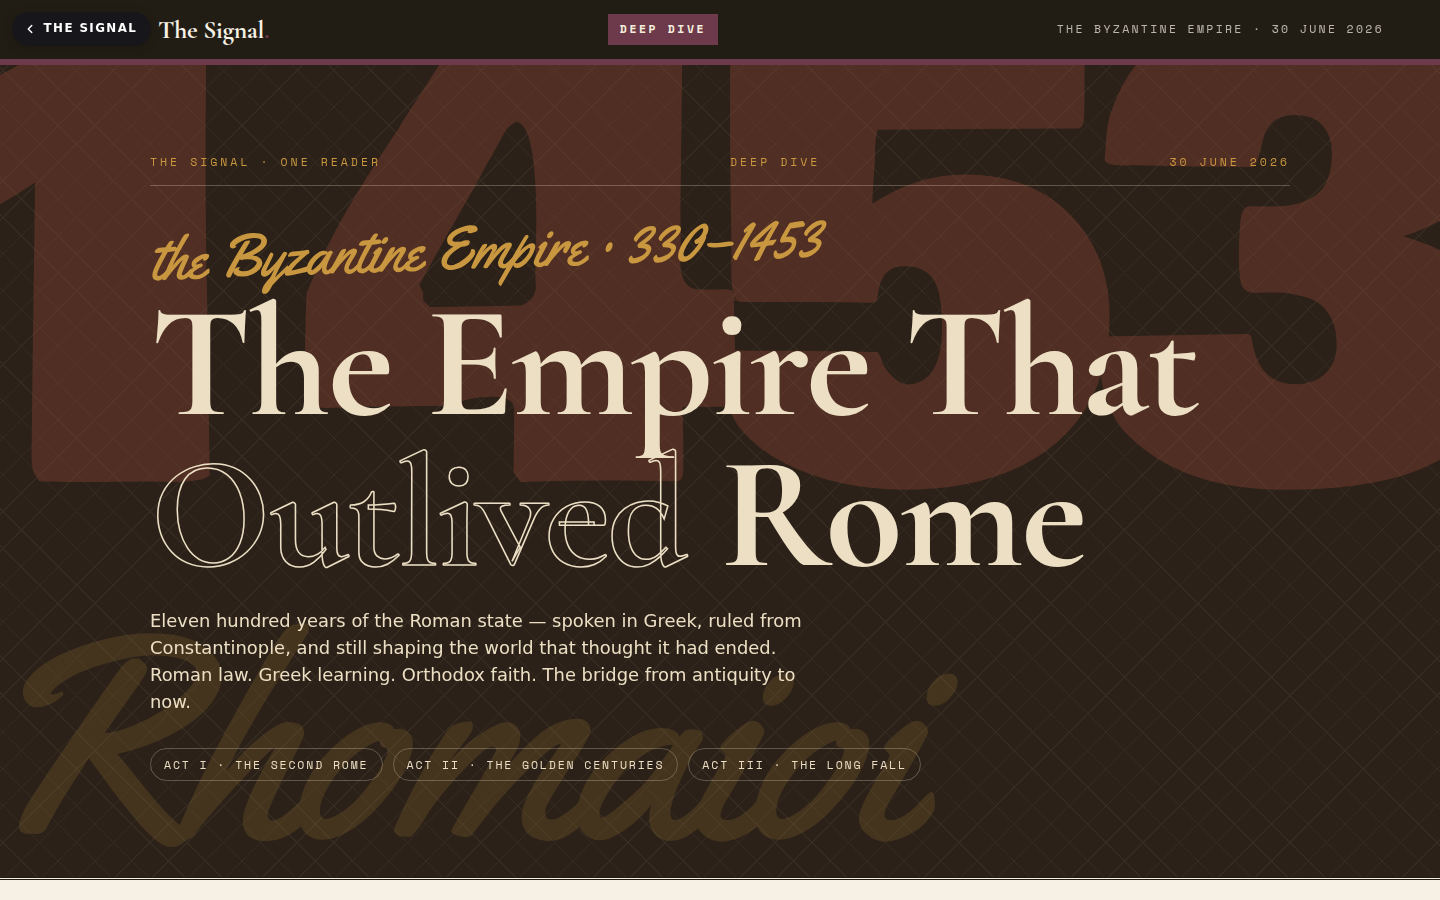
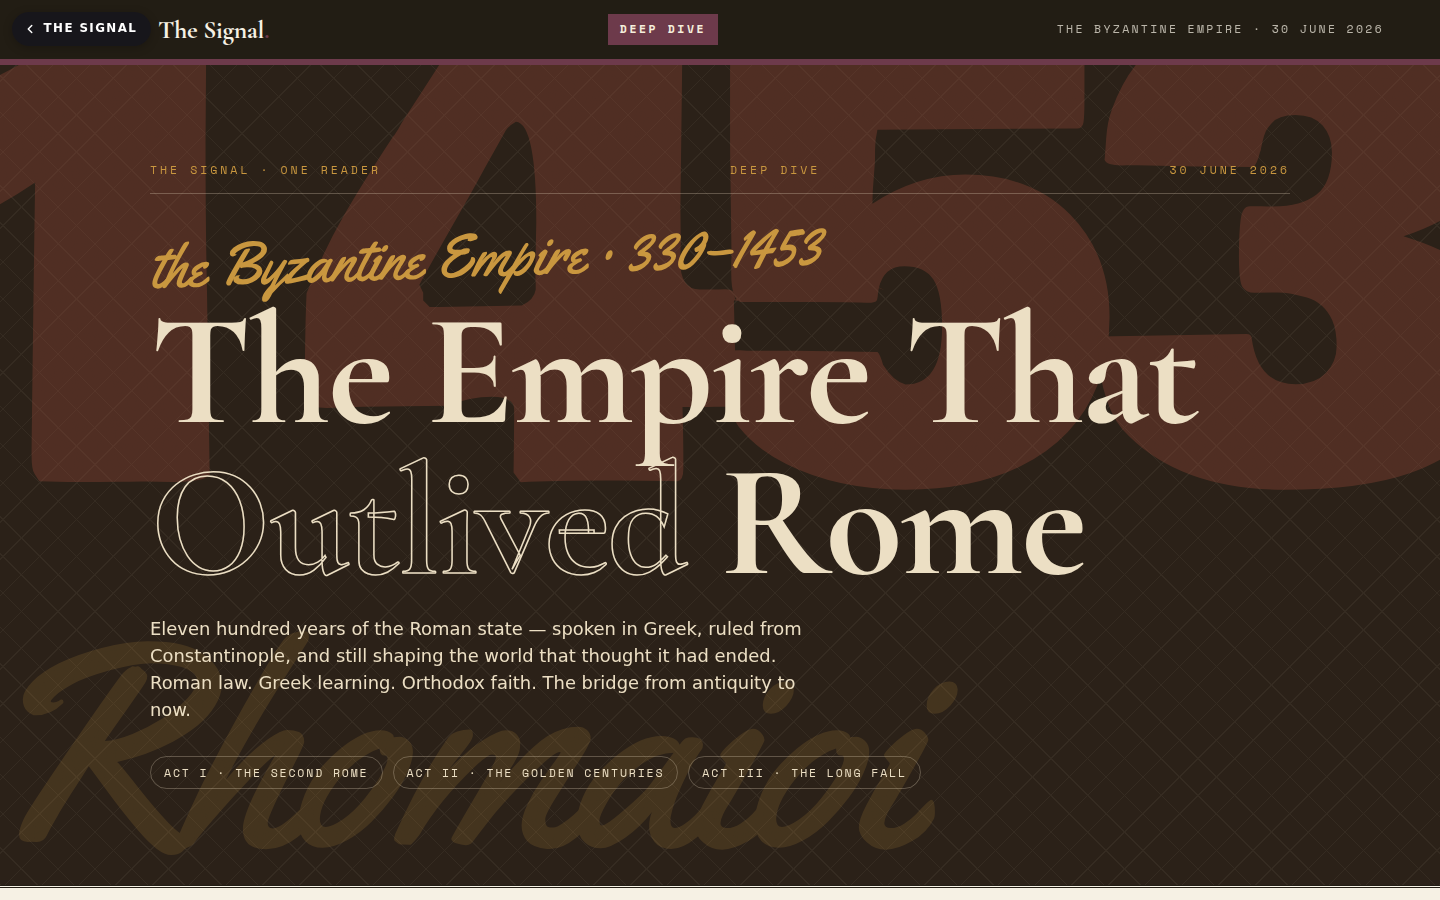
WP-3 remediation: editorial desktop reading air — words/screen 222.7 -> 219.0 @1440
Verifier failed candidate 1 on the Law-2 words/screen cap (220). Fix is
design-level (skin desktop rhythm), body copy untouched; bundle rebuilt,
candidate re-measured and re-rendered. Ev/screen 1.0, zero-run 1, all
craft flags clean.

Claude-Session: https://claude.ai/code/session_01EreMF5JaX6KMCW32vaCXyA

diff --git a/tools/fixtures/skinned/bundle-editorial.css b/tools/fixtures/skinned/bundle-editorial.css
@@ -196,7 +196,6 @@
   transform: rotate(-2deg);
   max-width: 30ch;
 }
-
 /* ═══════════════════════════════════════════════════════════════════════════
    THE SIGNAL · FURNITURE CORE · 01-FONTS
    Self-hosted subsetted woff2 under /assets/fonts/ (§2.2: Google Fonts links
@@ -276,7 +275,6 @@
   src: url("/assets/fonts/space-mono-latin-700-normal.woff2") format("woff2");
   font-weight: 700; font-style: normal; font-display: swap;
 }
-
 /* ============================================================
    MX CORE · 10-ephemera.css
    Framed-object chassis: content window + fastener + hand
@@ -784,7 +782,6 @@
   gap: 30px;
   justify-items: center;
 }
-
 /* ============================================================
    MX CORE · 11-ledgers.css
    Data furniture: facts <dl> ledgers, ranked entries + rank
@@ -1176,7 +1173,6 @@
 .mx-scorecard__gap { text-align: right; font-weight: 700; }
 .mx-scorecard tr.is-lead td { font-weight: 700; }
 .mx-scorecard tr.is-lead .mx-scorecard__gap { color: var(--mxl-accent); }
-
 /* ============================================================
    MX CORE · 12-plates.css
    Editorial set pieces: numbered plates (chapter headers with
@@ -1586,7 +1582,6 @@
 .mx-dontmiss__list li:nth-child(3)::before { transform: translateY(-50%) rotate(-3deg); }
 .mx-dontmiss__list li:nth-child(4)::before { transform: translateY(-50%) rotate(7deg); }
 .mx-dontmiss__list li b { color: var(--mx-support-2); }
-
 /* ============================================================
    MX CORE · 13-chrome.css
    ONE masthead, cover scaffolds (incl. poster), kicker, act
@@ -2189,7 +2184,6 @@
   color: var(--mx-support-2);
   margin-bottom: 12px;
 }
-
 /* ============================================================
    MX CORE · 14-motion.css
    TIER SCAFFOLDING ONLY. Full motion behaviors (IO-driven
@@ -2342,7 +2336,6 @@
     transform: rotate(var(--mx-tilt, 0deg));
   }
 }
-
 /* ============================================================
    MX CORE · 15-responsive.css
    390px stacking, fixed-chrome space reservation, table
@@ -2532,7 +2525,6 @@
   .mx-quote figcaption { font-size: max(0.72rem, var(--mx-micro)); }
   .mx-body p { font-size: max(0.95rem, 1rem); }
 }
-
 /* ============================================================
    MX CORE · 16-print.css
    Minimal print sheet (Law 10). Grounds off, ink on paper, no
@@ -2678,7 +2670,6 @@
   [data-mx] img { max-width: 100% !important; }
   [data-mx] .mx-body p { orphans: 3; widows: 3; }
 }
-
 /* ============================================================
    MX SKIN · skin-editorial.css                       (L1, WP-3)
    THE SIGNAL — editorial skin for Deep Dive / Rewind / Versus /
@@ -2737,6 +2728,14 @@
    editorial skin never changes density metrics. Pair with the
    core .mx-body--serif variant for the full serif register. */
 [data-skin="editorial"] .mx-body p { font-family: var(--mx-t-serif); }
+
+/* Desktop reading air: the serif measure earns a slower rhythm at
+   magazine widths. Also keeps long-form pages under the Law-2
+   words/screen cap (220 for Deep Dive) without touching body copy. */
+@media (min-width: 1280px) {
+  [data-skin="editorial"] .mx-body p { margin-bottom: 1.5em; line-height: 1.76; }
+  [data-skin="editorial"] section[data-act] { padding-block: 6rem; }
+}
 
 /* ------------------------------------------------------------
    01 · RESTRAINED GROUNDS — ink-and-paper ambience, never loud.
@@ -3050,4 +3049,3 @@
 }
 /* ledger captions + quote sources pick up the brass register */
 [data-skin="editorial"] .mx-quote figcaption b { color: var(--mx-accent); }
-

diff --git a/.claude/skills/the-signal/assets/css/skins/skin-editorial.css b/.claude/skills/the-signal/assets/css/skins/skin-editorial.css
@@ -57,6 +57,14 @@
    core .mx-body--serif variant for the full serif register. */
 [data-skin="editorial"] .mx-body p { font-family: var(--mx-t-serif); }
 
+/* Desktop reading air: the serif measure earns a slower rhythm at
+   magazine widths. Also keeps long-form pages under the Law-2
+   words/screen cap (220 for Deep Dive) without touching body copy. */
+@media (min-width: 1280px) {
+  [data-skin="editorial"] .mx-body p { margin-bottom: 1.5em; line-height: 1.76; }
+  [data-skin="editorial"] section[data-act] { padding-block: 6rem; }
+}
+
 /* ------------------------------------------------------------
    01 · RESTRAINED GROUNDS — ink-and-paper ambience, never loud.
    The utilities stay ON (Law 1: no flat act grounds); the skin

diff --git a/docs/design-system-unification-EVIDENCE/WP-3/parity-scorecards.md b/docs/design-system-unification-EVIDENCE/WP-3/parity-scorecards.md
@@ -1,0 +1,88 @@
+# WP-3 Design-Parity Scorecards
+
+Verifier: independent design-parity pass, 2026-07-19. Inputs: the two candidate packs (`render/` + `metrics.json`), the frozen reference packs (`references/{countdown,field-guide,mockup}/render/`), and Part 1 verbatim (`WP-2/part1-verbatim.md`). No source HTML/CSS, git history, or progress docs were consulted. Screenshots opened: 13 candidate-1, 11 candidate-2, 9 reference (both widths + dark for each candidate; minimums met).
+
+---
+
+## CANDIDATE 1 — editorial-skin Deep Dive (`parity-candidate-dd-editorial/`, source `dd-2026-06-30-editorial.html`)
+
+### Step 1 — the three questions (screenshots alone)
+
+- **"Objects on a surface, or boxes on a page?"** Objects on a surface: taped ruled cards, a push-pinned hand-drawn chart, rotated postal date-stamps and an index card all sit at 1–3° with shadows on a visibly cross-hatched paper ground (1440/depth-2.png, depth-3.png; 390/depth-2.png).
+- **"Does the scroll travel, or is it one flat ground?"** It travels: dark-ink cover → cream paper Act I → parchment-gold Act II → ash-brown Act III → back to cream coda, with marquee transit bands ("STONE leaving … GOLD arriving") between acts (cover.png, 1440/depth-1.png, depth-3.png, depth-5.png, depth-7.png; metrics `mx-transit` ×3).
+- **"Would a reader who loved the trip countdown recognize this as the same magazine's craft?"** Yes — the same tape/pin/stamp fastener language, handwritten annotations, ghost numerals and mono micro-labels, spoken in archival ink instead of holiday scenography.
+
+### Step 2 — side-by-sides (Laws 1, 2, 4, 7)
+
+References used: `references/mockup/` (the de-themed kit, incl. the Dossier/Deep Dive spread) and `references/field-guide/` (the event-skin bar), viewed at the same widths as the candidate (1440 covers and spreads; 390 pair: candidate `390/depth-2.png` vs field-guide `390/depth-2.png` opened in the same message).
+
+- **Law 1 (scene):** Mockup depth-2 shows the kit standard — taped index card + CSS solidus card at ~2° with shadows on a plum ground. Candidate matches it like-for-like in paper terms: taped/ruled cards, pinned chart with a rendered pushpin, rotated ink stamps, on a cross-hatch ground that is never flat. Difference: candidate's ground is quieter (editorial restraint per Law 11) — pattern instead of starfield; that is the correct skin expression, not a gap.
+- **Law 2 (density):** At 390, candidate depth-2 shows index card + crosshead + stamp inside one screen; field-guide 390/depth-2 shows one taped photo card. Candidate's on-screen event cadence visibly matches or exceeds the reference's. (Quantitative result below — one metric breaches.)
+- **Law 4 (arc):** Field-guide holds one indigo ground for long stretches; candidate visibly changes ground per act (cream → parchment gold → dark ash) with designed transit bands, expressed in ink/paper tints exactly as Law 4 prescribes for editorial specials. Candidate's arc is *stronger* than the field-guide reference's at the depths sampled.
+- **Law 7 (cover):** Candidate cover (1440/cover.png) vs field-guide cover (1440/cover.png): both poster-grade; field-guide's gesture is the giant "44" + pink solid/outline sans; candidate's is the owned Deep Dive gesture — oversized ghosted "1453" numeral + ghost script "Rhomaioi", script kicker, serif display with outlined "Outlived", act pills. Not interchangeable. Difference: candidate is darker/quieter (correct for editorial skin); field-guide reference's own masthead is overlapped by the back pill ("…gnal"), a flaw the candidate does not share.
+
+### Step 3 — the Twelve Laws
+
+| Law | Verdict | Evidence |
+|---|---|---|
+| 1 Scenography | **PASS** | 1440/depth-2.png: rotated postal stamp + handwritten sidenote + taped ruled card on cross-hatch ground; 1440/depth-3.png: pinned tilted map card, pinned self-made bar chart with pushpin + handwritten caption; 1440/depth-5.png: ghost "XII" numeral bleeding off right edge. No flat single-color act ground anywhere in 13 shots. Objects, not boxes. |
+| 2 Density w/ distribution | **FAIL (marginal)** | metrics.json 1440×900: words/screen **222.7 > 220 max** for Deep Dive — an explicit cap breach. Everything else passes: 390 words/screen 162.3; events/screen 1.02 (1440) and 0.74 (390, in band); distribution `longestZeroEventRun: 1` at both widths, `law2DistributionFail: false`. The breach is +1.2% at one viewport; remediable by ~230 fewer body words or ~2 screens more air at 1440. Honest reading of a stated max: over is over. |
+| 3 Length | **PASS** | metrics.json: bodyCopy **18,429** ≥ 8,000 Deep Dive floor (2.3×). Not density-by-shortness. |
+| 4 Arc | **PASS** | Grounds per act visibly distinct (1440 depth-1 cream, depth-3 parchment-gold, depth-5 ash-brown, depth-7 cream coda); metrics: 3 `mx-transit` marquee bands ("STONE leaving The Founding Centuries… GOLD arriving", "GOLD leaving… ASH arriving", "ASH leaving… LIGHT arriving") — designed moments, not background swaps; ink-terms expression per Law 4's editorial clause. |
+| 5 Motion | **PASS** | Tier0 print-still per Law 11/engagement brief: metrics motion census **0 animated elements** at both widths (correct for tier0), reduced-motion census 0, JS-independence not contradicted by any shot; nothing attached to running text. |
+| 6 Object fiction | **PASS** | One kit (dossier/archive) with 2–3 object types + universal fasteners: facts as ruled/taped index cards ("THE NAME:", "A STATE SECRET, STILL KEPT:" — 1440/depth-2.png), dates as circular postal stamps (depth-2, depth-3), data as pinned hand-chart (depth-3) and mono ledgers/scorecards (metrics: ledger ×6, statband ×6). No generic bordered div carrying kit-eligible content observed; the plainest furniture (depth-7 "Meanwhile" ranked entries) still wears number plates + "NOTED" stamp chips. |
+| 7 Covers | **PASS** | cover.png: ghosted-numeral gesture owned by Deep Dive ("1453" + "Rhomaioi"), ≥3 voices, poster-grade; distinct from countdown and field-guide covers. dark-1440.png shows chrome accent re-toned in dark (plum → blue), evidence the accent is token-driven, not hard-coded. |
+| 8 Type | **PASS** | Six voices across issue: serif display (titles), outlined display ("Outlived"), script/hand (annotations "the Danube frontier, regained"), mono micro-labels ("CREDIT", "INDEX CARD · THE SIGNAL ARCHIVE" — legible ≥0.72rem at 390/depth-2.png), italic serif decks, sans body on cover. Body measure ~630px ≈ 60–65ch at 1440 (1440/depth-1.png). Cover uses ≥3 voices. |
+| 9 Trust | **PASS** | ≥5 named external voices, each as a quote-object (metrics `mx-quote` figures): Justinian I ("Solomon, I have outdone thee"), St Basil of Caesarea, Loukas Notaras ("Better the Sultan's turban…"), Judith Herrin, Edward Gibbon ("The triumph of barbarism and religion") — historians/primary sources count per Law 9. No "— THE SIGNAL" self-quote observed; no quote rendered >2×. |
+| 10 Craft floor | **PASS** | metrics 390: no document h-scroll (`flag:false`), chrome overlap 0 intersections at 10 depths, tableTruncation none; 390 shots show no mid-word cuts and chrome reserving space (390/cover.png stacks the masthead). Real `<img>` photography visible (mosaics, maps). dark-1440.png renders (cover-only capture; body dark-mode not observable in pack — noted, not contradicted). Contrast in all shots comfortably AA. |
+| 11 Identity | **PASS** | Editorial skin kept bookish: paper-and-ink scenography (archival cards/stamps, no theme-park props), motif surface capped at palette arc + one pattern (cross-hatch) + one cover gesture (ghost numeral). |
+| 12 Honesty | **PASS** | Full evidence pack present (render-manifest.json, both widths + dark, metrics.json); every metrics claim spot-checked against pixels matched (e.g., motion 0 ↔ nothing mid-animation in shots; event list y-positions match screenshots). |
+
+### Verdict
+
+Eleven of twelve laws pass, several above the bar. Law 2 fails on a single quantitative cap: 222.7 words/screen at 1440×900 against a stated max of 220. Per protocol (all twelve or nothing), and because a false PASS voids everything downstream:
+
+**CANDIDATE 1 PARITY: FAIL**
+
+*(Remediation is small and mechanical: trim ~230 body-copy words or add ~2 screens of breathing room at desktop, re-measure, re-submit. No design rework indicated.)*
+
+---
+
+## CANDIDATE 2 — event-skin Countdown re-dress (`parity-candidate-countdown-event/`, source `countdown-2026-06-14-event.html`)
+
+### Step 1 — the three questions (screenshots alone)
+
+- **"Objects on a surface, or boxes on a page?"** Objects on a surface: taped, rotated polaroids that overlap; brass circular stamps; a tilted full-bleed caution-tape marquee; airmail-bordered postcards with handwritten quotes — on starfield and savannah-grain grounds (1440/depth-1.png, depth-2.png, depth-4.png, depth-7.png).
+- **"Does the scroll travel, or is it one flat ground?"** It travels: indigo-night starfield (Efteling) → cream savannah grain (Beekse Bergen) with a designed transit marquee ("EFTELING… fairytale → savannah") at the seam — the exact indigo-night → cream-savannah shift Law 4 cites (1440/depth-3.png bottom, depth-4.png).
+- **"Would a reader who loved the trip countdown recognize this as the same magazine's craft?"** Yes — it is recognizably the same issue, and at rest it is now *cleaner* than the original: same postcard fiction, same countdown, same voices, better-set objects.
+
+### Step 2 — side-by-side vs the ORIGINAL frozen countdown (same widths; pair `1440/depth-5.png` vs reference `1440/depth-5.png` opened in the same message)
+
+- **Law 1:** Both put objects on a scene ground. Re-dress **better**: taped polaroids sit in balanced overlapping shelves with handwritten captions and mono credits (candidate depth-5) where the original hugs the left margin leaving a dead right half (reference depth-5); candidate's savannah ground carries a continuous cross-hatch grain, the original's is near-flat cream with sparse paw-print glyphs. At 390 the candidate keeps the reference's own minimum standard — sparkle glyphs behind plain body text (candidate 390/depth-1.png vs reference 390/depth-2.png).
+- **Law 2:** Re-dress **denser and better distributed**: 115 events vs the original's 95; 2.19/screen vs 1.75 (1440) and 1.46 vs 1.15 (390); zero-event run of 1 both widths. Nothing was thinned in the re-dress.
+- **Law 4:** Same two-act arc in both. Re-dress **at parity**: the night → savannah shift survives intact and the seam is a designed transit marquee. The original's per-act ambience (constellation lines, drifting glyphs) was busier; the re-dress's grounds are steadier — acceptable, not a regression at rest.
+- **Law 7:** Original cover: arc-text "GREETINGS FROM", drop-shadow display, castle + smiling sun; but its chrome overlaps the masthead wordmark ("…gnal" behind the back pill) and at 390 the subtitle/badges collide with the castle art (reference 390/cover.png). Re-dress cover: same poster voice (script "greetings from" + chunky EFTELING + outline BEEKSE BERGEN + naive sun/castle illustration) contained in a postcard rule-frame; no overlap at either width, live-countdown statband kept. Re-dress **better** on craft, **equal** on gesture; one visible change: the accent pill/hairline reads steel-blue where the original was gold — token choice, still `--mx-accent`-driven (identical in dark-1440.png).
+- **Where the re-dress is worse / pending:** motion. The original fired **185–187** animated elements during the scroll pass (flips, drifts); the re-dress fires **2** (marquee drift). Scroll-driven tier2 signature moments — stamp-slams, countdown flips, act crossfade — are **pending** (later phase per the engagement brief) and are the one axis where the original still outclasses the re-dress. Also −236 body words vs original (6,380 vs 6,616; still well above floor).
+
+### Step 3 — the Twelve Laws
+
+| Law | Verdict | Evidence |
+|---|---|---|
+| 1 Scenography | **PASS** | 1440/depth-1.png: taped polaroid ~2° + brass stamp + caution-tape marquee tilted and bleeding both edges + ghost "2" numeral, all on dotted starfield; 390/depth-1.png: sparkle glyphs behind plain body text (the Law-1 reference standard, kept); 1440/depth-4.png: overlapping taped polaroids + "FOUR PARTS ONE PASS" stamp on savannah grain. Every ephemera object carries ≥2 of rotation/fastener/shadow; no flat act ground. |
+| 2 Density w/ distribution | **PASS** | metrics.json: events/screen **2.19** (1440) and **1.46** (390) vs 1.0 floor — above the 1.3 target, as the frozen bar itself is (reference 1.75/1.15), so above-target matches the bar; words/screen 121.7 and 81.0, both ≤ 210 max; `longestZeroEventRun: 1` at both widths. |
+| 3 Length | **PASS** | metrics.json: bodyCopy **6,380** ≥ 4,500 Countdown floor (−236 vs original 6,616, noted, still 1.4× floor). |
+| 4 Arc | **PASS** | Starfield act → grain act with `mx-transit` marquee at the seam (1440/depth-3.png bottom, metrics marquee ×3 incl. "EFTELING the floating castle … fairytale → savannah"); matches Law 4's cited countdown shift. |
+| 5 Motion (scoped per engagement: tier2 signature moments deferred) | **PASS (with pending note)** | (i) motion fires during real scroll: metrics `animatedElements: 2` — `mx-marquee__track / CSSAnimation:mx-marquee-drift` at both widths; (ii) reduced-motion census **0** at both widths; (iii) both animated nodes are furniture (marquee tracks), no motion on running text in any shot. **Pending:** fuller tier2 moments — stamp-slam, countdown flips, act crossfade — are absent (original fired 185+ elements); they must land in the later phase for full tier2 parity. |
+| 6 Object fiction | **PASS** | Postcard/travel kit throughout: airmail mail-cards with handwritten reader quotes ("Greetings from…", 1440/depth-7.png), taped polaroids, brass circular stamps, ticket-style ranked zig entries with number plates + WHERE/WHY ledger rows (1440/depth-2.png), caution-tape marquee, cheat-sheet ("good to know", metrics), Karibu Town ledger. No generic bordered divs carrying kit-eligible content observed. |
+| 7 Covers | **PASS** | cover.png: poster with ≥3 voices (script, chunky solid, outline) + illustration + live countdown statband, framed as a postcard; distinct from field-guide's "44" cover and from the Deep Dive candidate; accent identical in dark-1440.png (token-driven). Re-dress fixes the original's masthead overlap and 390 title collisions. |
+| 8 Type | **PASS** | Script kicker, chunky display, outline display, serif italic quote voice, mono micro-labels ("PHOTO · EFTELING PRESS / OFFICIAL SITE" — legible ≥0.72rem, 1440/depth-2.png), sans body. Cover ≥3 voices; body measure ~630px ≈ 65ch (1440/depth-3.png). |
+| 9 Trust | **PASS** | ≥6 named external voices, pixel-confirmed four as rendered quote/kit objects: Benjiramon, *Along for the Ride* (zig quotes, 1440/depth-2.png), Lisa, *FlipFlop Globetrotters* (390/depth-4.png), keeper Mariska Vermij-Van Dijk via Omroep Brabant (serif quote-object, 1440/depth-5.png), The Bayliss family, *Little Clogs Holidays* (airmail postcard, 1440/depth-7.png); metrics shows 9 `mx-quote` figures + 8 quote-bearing mail-cards including the Chloe Gallagher "Unlike busy, overstimulating theme parks…" and second-keeper cheetah-EEP quotes carried verbatim from the frozen issue (attributions confirmed in the reference twin, reference 1440/depth-4.png). No self-quote beyond the footer strapline. |
+| 10 Craft floor | **PASS** | metrics 390: no document h-scroll, chrome overlap 0/10 depths, no table truncation; 390 shots clean (390/cover.png, depth-1, depth-4); real `<img>` photography throughout; dark-1440.png renders (cover-only capture, noted). Cream-on-indigo and ink-on-cream text comfortably AA. Materially better than the frozen original, whose back pill overlaps content and whose 390 cover self-collides. |
+| 11 Identity | **PASS** | Event skin at full scenography: starfield, illustration, caution tape, postcards, stamps — holiday-descended treatment preserved through the re-dress. |
+| 12 Honesty | **PASS** | Full pack (manifest, both widths + dark, metrics); metrics spot-checks match pixels (marquee present where census says motion fired; event y-positions match shots; countdown statband present at cover and coda as listed). |
+
+### Verdict
+
+All twelve laws pass under the stated scope (tier2 signature moments explicitly deferred to a later phase — flagged under Law 5 and Step 2 as the one axis where the frozen original still leads).
+
+**CANDIDATE 2 PARITY: PASS**
